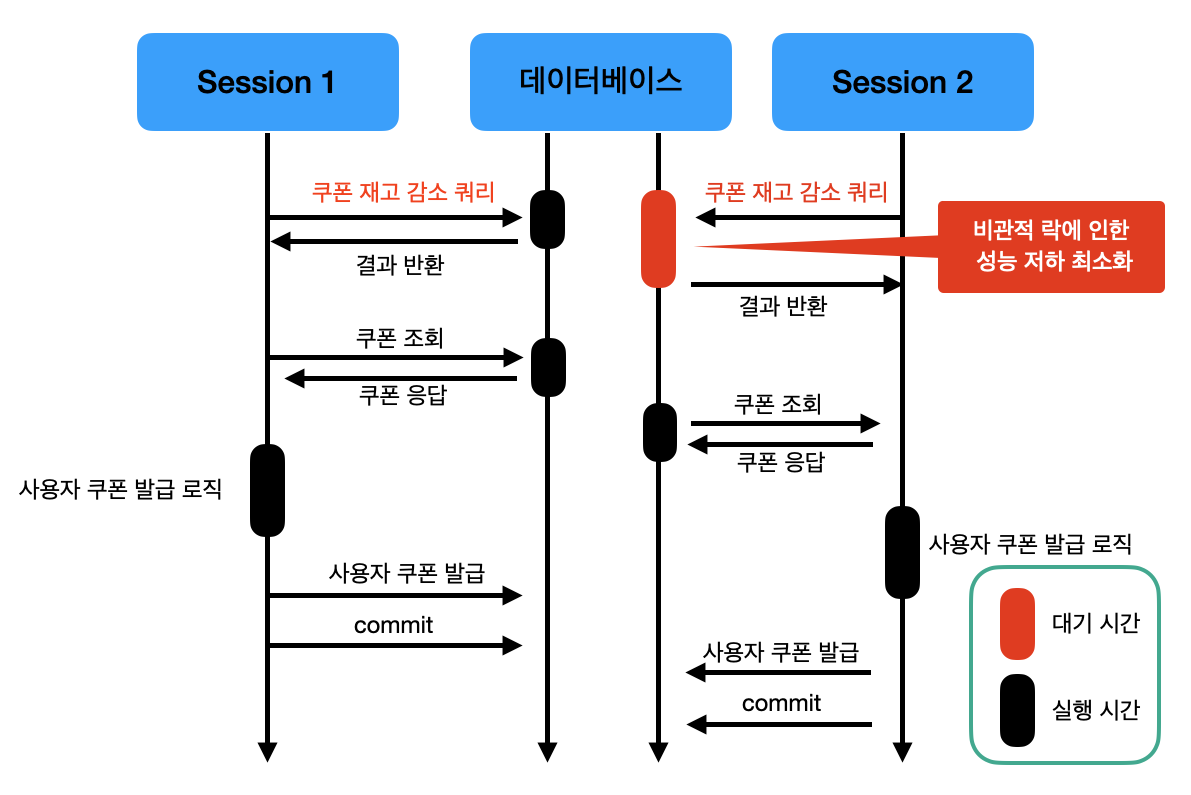
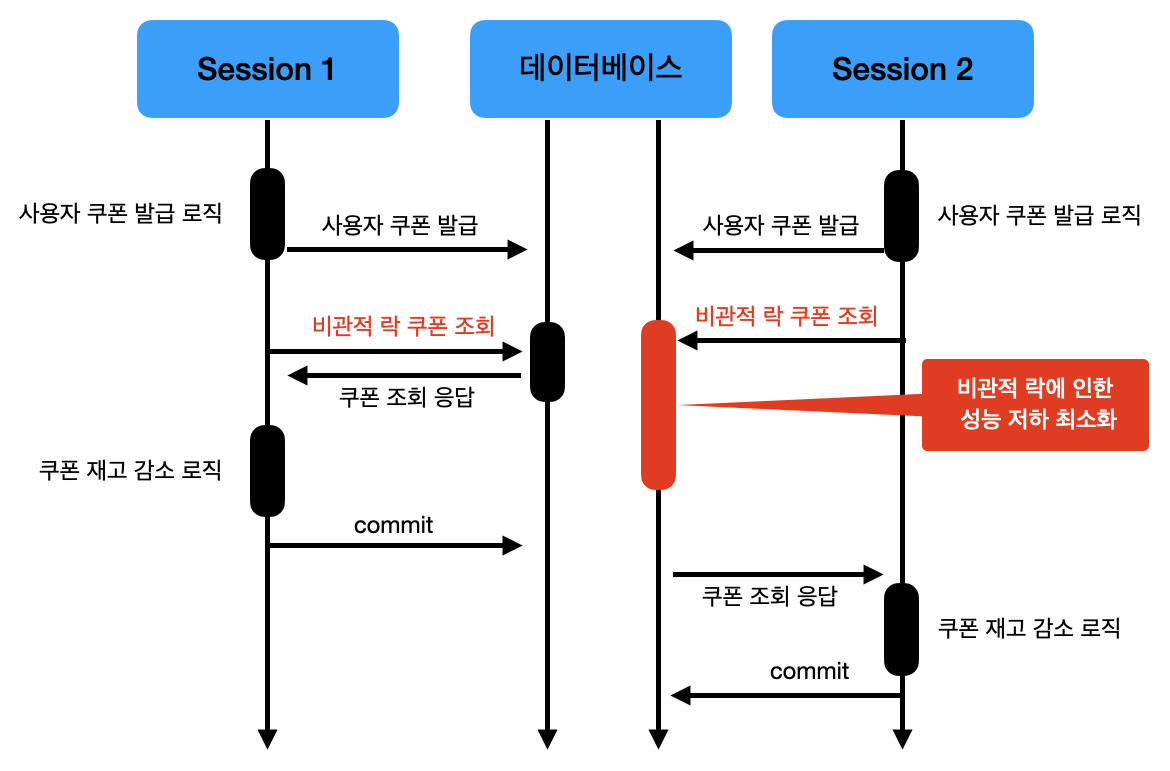
add

Changed region(s): [[0.0, 0.0, 0.9846, 0.965], [0.0923, 0.1245, 0.1231, 0.1556]]

diff --git a/_posts/Toy-Project/2023-10-25-title:  [토이 프로젝트] Lock으로 인한 응답 지연 이슈 : 로직 개선.md b/_posts/Toy-Project/2023-10-25-title:  [토이 프로젝트] Lock으로 인한 응답 지연 이슈 : 로직 개선.md
@@ -1,5 +1,5 @@
 ---
-title:  "[토이 프로젝트] Lock으로 인한 응답 지연 이슈 : 로직 개선"
+title:  "[토이 프로젝트] Lock으로 인한 응답 지연 이슈 : Lock 경합 최소화"
 
 categories:
   - Database
@@ -20,7 +20,7 @@ date: 2023-10-25
 
 ![](../../image/Toy-Project/[토이%20프로젝트]%20풀스캔%20이슈%20:%20인덱스/락%20쿼리%20성능.png)
 
-본 포스팅에서는 제가 어떻게 위와 같이 `Lock`으로 인한 성능 저하를 최소화하는 방법에 대해서 써보려 합니다.
+본 포스팅에서는 위와 같이 `Lock 경합`으로 인한 성능 저하를 최소화하는 방법에 대해서 써보려 합니다.
 
 # 현재의 코드
 
@@ -33,7 +33,6 @@ date: 2023-10-25
 ![](../../image/Toy-Project/[토이%20프로젝트]%20Lock으로%20인한%20응답%20지연%20이슈%20:%20로직%20개선/../[토이%20프로젝트]%20Lock으로%20인한%20응답%20지연%20이슈%20:%20로직%20개선/Lock으로%20인한%20응답%20지연%20현상%20-%201.png)
 
 위의 그림에서 사용자 쿠폰은 쿠폰에 대한 PK를 FK로 가지고 있는 상황입니다.
-
 
 ## 사용자 쿠폰 발급 로직
 
@@ -49,9 +48,8 @@ public class UserCoupon extends BaseEntity {
     @Id
     private Long userCouponId;
 
-    @ManyToOne
-    @JoinColumn(name = "coupon_id")
-    private Coupon coupon;
+    @Column(name = "coupon_id")
+    private Long couponId;
 
     ... 코드 생략
 }
@@ -87,16 +85,15 @@ public class IssueUserCouponService {
 
   @Transactional
   private UserCoupon issueUserCoupon(IssueUserCouponCommand command) {
-    LocalDateTime currentTime = LocalDateTime.now();
 
     // 쿠폰 과발급 방지를 위해, 비관적 락을 이용한 조회
     Coupon coupon = couponRepository.findByIdWithPessimisticLock(command.couponId());
       
     // 쿠폰 재고 감소
-    coupon.decrease(currentTime);
+    coupon.decrease();
 
     // 사용자 쿠폰 발급 및 아이디 반환
-    UserCoupon issuedUserCoupon = new UserCoupon(command.userId(), coupon, currentTime);
+    UserCoupon issuedUserCoupon = new UserCoupon(command.userId(), coupon.getCouponId);
     return userCouponRepository.save(issuedUserCoupon).getUserCouponId();
   }
 }
@@ -119,10 +116,25 @@ public class IssueUserCouponService {
 
 # Lock을 가진 트랜잭션의 범위를 줄이는 방법
 
+
+
+## 방법 1 : 외래키 제약 사용 X
+
+사용자 테이블은 쿠폰에 대한 외래키를 가지고 있었습니다. 외래키는 두 개의 테이블을 연결해주는 연결 다리 역할을 하고, 새롭게 추가되는 행에서 외래키에 해당하는 값이 참조하는 테이블에 존재하는지를 체크합니다. 그리고 이 부분에서 성능의 병목점이 발생합니다.
+
+"외래키는 부모테이블이나 자식 테이블에 데이터가 있는지 체크하는 작업이 필요하므로 잠금이 여러 테이블로 전파되고, 그로인해 데드락이 발생할 수 있다. 그래서 실무에서는 잘 사용하지 않는다."
+-Real MySQL 3장-
+{: .notice--info}
+
+사용자 쿠폰발급을 위해 쓰기 쿼리가 수행될 때, 쿠폰 테이블의 해당 행을 `공유 락`을 사용하여 데이터 정합성을 확인합니다.  
+`Lock`을 사용하기 때문에, `비관적 락`을 사용하는 쿠폰 발급 로직에서 `Lock 경합`이 발생하여 성능 이슈가 발생한 것입니다.
+
+## 방법 2 : Lock 사용 범위 최소화
+
 동시성을 제어하기 위해 `Lock`을 사용했습니다. 하지만 `Lock`을 사용함으로써, 요청에 대한 처리 속도가 감소했습니다.  
 `Lock`으로 인해 성능이 낮아졌다면, 딱 필요한 만큼만 `Lock`을 사용하는 것은 어떨까요?
 
-방법은 아래의 코드와 같습니다.
+Lock 사용 범위 최소화하는 방법은 아래의 코드와 같습니다.
 
 ```java
 
@@ -134,86 +146,36 @@ public class IssueUserCouponFacade {
     private final IssueUserCouponService issueUserCouponService;
 
 
-    // @Transactoinal 어노테이션 주석 처리
+    @Transactoinal
     public Long issue(IssueUserCouponCommand command) {
 
-        // 쿠폰 재고 감소
-        couponQuantityService.decrease(command);
+      // 사용자 쿠폰 발급
+      UserCoupon issuedCoupon = new UserCoupon(command.userId(), command.couponId());
+      Long issuedUserCouponId = userCouponRepository.save(issuedCoupon)
+                                                    .getUserCouponId();
 
-        // 사용자 쿠폰 발급 및 사용자 쿠폰 아이디 반환
-        return issueUserCouponService.issue(command);
+      // 쿠폰 과발급 방지를 위해, 비관적 락을 이용한 조회
+      Coupon coupon = couponRepository.findByIdWithPessimisticLock(command.couponId());
+
+      // 쿠폰 재고 감소
+      coupon.decrease();
+
+      // 사용자 쿠폰 아이디 반환
+      return issuedUserCouponId
     }
-}
-
-===
-
-@Service
-@RequiredArgsConstructor
-public class IssueUserCouponService {
-
-    private final CouponRepository couponRepository;
-    private final UserCouponRepository userCouponRepository;
-
-    public Long issue(IssueUserCouponCommand command) {
-      
-      // ================= 중요 ===================
-      // Lock을 사용하지 않은 쿠폰 조회 
-      Coupon coupon = couponRepository.findById(command.couponId())
-             .orElseThrow(NotFoundCouponException::new);
-      // =========================================
-
-      UserCoupon issuedUserCoupon = new UserCoupon(command.userId(), coupon);
-      return userCouponRepository.save(issuedUserCoupon).getUserCouponId();
-    }
-}
-
-===
-
-@RequiredArgsConstructor
-public class CouponQuantityService {
-
-    private final CouponRepository couponRepository;
-
-    public void decrease(IssueUserCouponCommand command) {
-
-      // ================= 매우 중요 ===================
-      // 쿼리 결과에 영향을 받은 레코드 수 반환
-      // 네이티브 쿼리 사용
-      int result = couponRepository.decrease(command.couponId());
-      // ==============================================
-
-      // 결과에 영향을 받은 레코드가 1이 아니면 예외 발생
-      if (result != 1) throw new IllegalStateException("쿠폰의 재고가 없습니다.");
-    }
-}
-
-===
-
-public interface CouponRepository extends JpaRepository<Coupon, Long> {
-
-    // 남은 재고가 1 이상인 쿠폰일 경우, 쿠폰 재고 감소
-    @Transactional
-    @Modifying(clearAutomatically = true)
-    @Query(value =  "update coupon " +
-                    "set left_quantity = left_quantity - 1 " +
-                    "where coupon_id = :couponId and left_quantity > 0 "
-                    , nativeQuery = true)
-    int decrease(Long couponId);
 }
 ```
 
-위의 코드를 요약하면 아래의 그림과 같습니다.
+위의 코드는 기존의 코드와 무엇이 달라졌을까요?  
+요약하면 아래의 그림과 같습니다.
 
 ![](../../image/Toy-Project/[토이%20프로젝트]%20Lock으로%20인한%20응답%20지연%20이슈%20:%20로직%20개선/../[토이%20프로젝트]%20Lock으로%20인한%20응답%20지연%20이슈%20:%20로직%20개선/Lock으로%20인한%20응답%20지연%20현상%20-%203.png)
 
-쿠폰의 재고 감소를 위해 `Lock`을 사용한 쿠폰 조회를 하지 않았습니다.
-그 대신, 남은 재고가 1 이상인 쿠폰이면 업데이트하는 네이티브 쿼리를 사용하여 쿠폰 재고 감소 로직을 수행하였습니다.  
-그리고 네이티브 쿼리 결과에 따라 쿠폰 발급 성공 여부를 판단합니다. (위 코드의 네이티브 쿼리 반환값은 쿼리에 의해 영향을 받은 레코드 수입니다.)
+위의 그림처럼 사용자 쿠폰 발급 로직과 쿠폰 재고 감소 로직의 순서를 바꿈으로써, 트랜잭션이 `Lock`을 점유하고 있는 시간을 최소화하여, `Lock 경합`을 최소화할 수 있습니다.
 
+# 결과
 
-# 로직 개선 후 결과
-
-위의 코드 처럼 로직을 개선하여 `Lock`으로 인한 성능 저하를 최소화 하였고, 성능(TPS)을 약 36% 향상 시킬 수 있었습니다.
+테이블에서 외래키를 제거하고, 위의 코드 처럼 로직을 개선하여 `Lock`으로 인한 성능 저하를 최소화 하였고, 성능(TPS)을 약 22% 향상 시킬 수 있었습니다.
 
 ![](../../image/Toy-Project/[토이%20프로젝트]%20Lock으로%20인한%20응답%20지연%20이슈%20:%20로직%20개선/../[토이%20프로젝트]%20Lock으로%20인한%20응답%20지연%20이슈%20:%20로직%20개선/Lock으로%20인한%20응답%20지연%20현상%20-%204.png)
 
@@ -221,16 +183,6 @@ public interface CouponRepository extends JpaRepository<Coupon, Long> {
 # 마무리
 
 `Lock`은 동시성을 제어할 수 있도록 도와주는 훌륭한 기술이지만, 성능 저하 이슈가 존재합니다.  
-따라서 `Lock`을 사용해야 한다면 최소한으로 사용하는 것이 좋을 것 같습니다.
+따라서 `Lock`을 사용해야 한다면 최소한으로 잘 사용하는 것이 좋을 것 같습니다.
 
-# 추가 이슈
-
-쿠폰 재고 감소 트랜잭션과 사용자 쿠폰 발급 트랜잭션을 별도의 트랜잭션에서 실행하도록 하여 성능을 높였습니다.
-
-하지만, 아래의 이슈가 존재합니다.
-
-- 쿠폰 재고 감소 트랜잭션은 성공
-- 하지만 사용자 쿠폰 트랜잭션이 실패할 경우 어떻게 복구할 것인지?
-
-다음 포스팅은 위의 이슈를 해결하는 글을 작성하려 합니다.  
 끝까지 봐주셔서 감사합니다!
